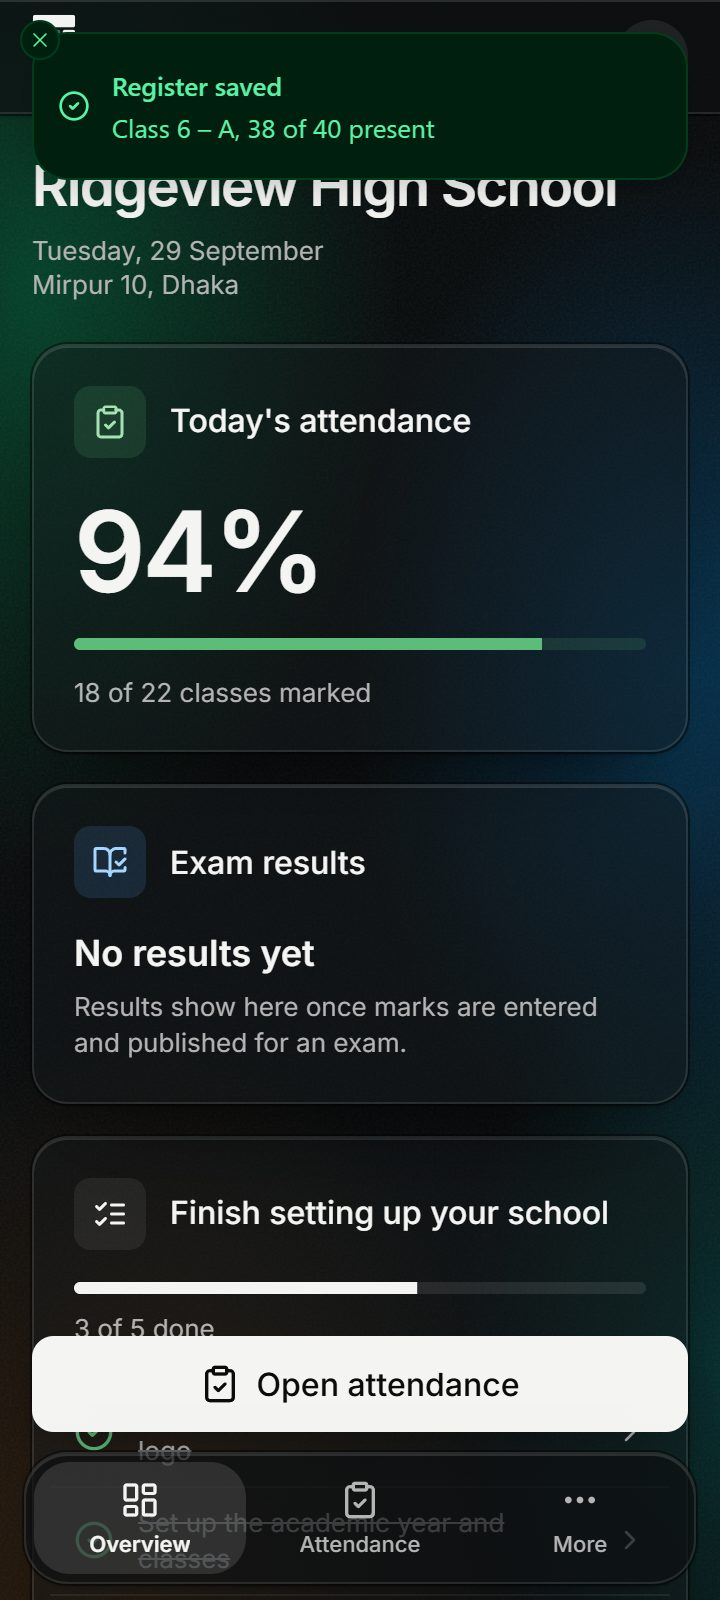
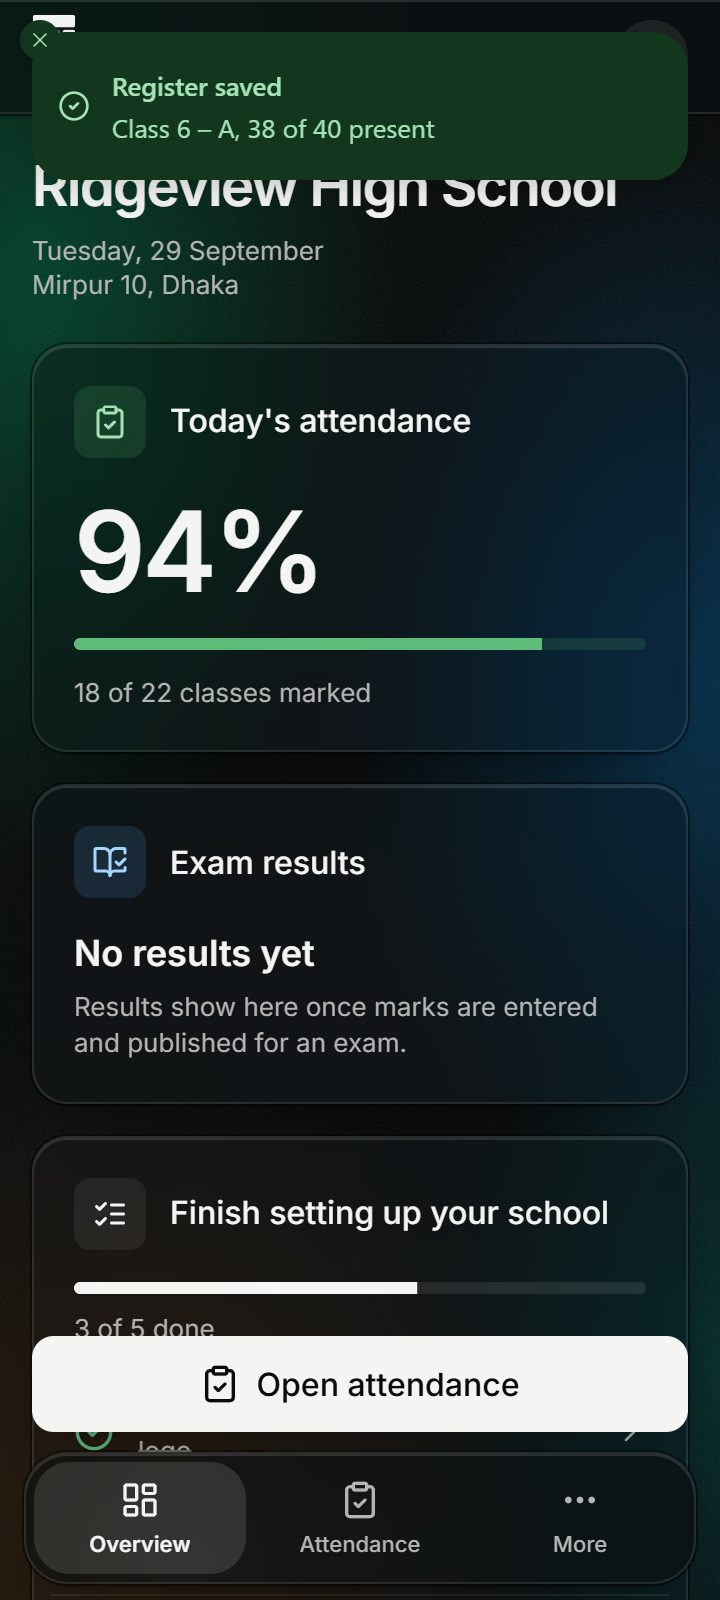
fix(design): accessible rich toasts; retaken glass screenshots; drop scratch preview; report third pass
Claude-Session: https://claude.ai/code/session_01RPijCEs437geuhi9W27B76

diff --git a/packages/ui/src/components/ui/sonner.tsx b/packages/ui/src/components/ui/sonner.tsx
@@ -33,6 +33,20 @@ const Toaster = ({ ...props }: ToasterProps) => {
           "--normal-text": "var(--popover-foreground)",
           "--normal-border": "var(--glass-border)",
           "--border-radius": "var(--radius-glass)",
+          // richColors: our soft/ink pairs (≥ 4.5:1); sonner's own success
+          // green is 4.25:1 on its background.
+          "--success-bg": "var(--success-soft)",
+          "--success-text": "var(--success-ink)",
+          "--success-border": "var(--success-soft)",
+          "--info-bg": "var(--info-soft)",
+          "--info-text": "var(--info-ink)",
+          "--info-border": "var(--info-soft)",
+          "--warning-bg": "var(--warning-soft)",
+          "--warning-text": "var(--warning-ink)",
+          "--warning-border": "var(--warning-soft)",
+          "--error-bg": "var(--danger-soft)",
+          "--error-text": "var(--danger-ink)",
+          "--error-border": "var(--danger-soft)",
         } as React.CSSProperties
       }
       {...props}

diff --git a/docs/test-reports/2026-09-29-design-system-v2.md b/docs/test-reports/2026-09-29-design-system-v2.md
@@ -7,7 +7,7 @@
 | Spec    | `docs/architecture/DESIGN-SYSTEM.md` §1.8, §1.9, §3.1; D-408                         |
 | PR      | #109                                                                                 |
 | Status  | **PASS WITH KNOWN ISSUES** (CI e2e/lighthouse results pending, §5)                   |
-| Date    | 2026-09-29                                                                           |
+| Date    | 2026-09-29, third pass 2026-09-30                                                    |
 | Run by  | Claude (design lane, second pass)                                                    |
 
 ---
@@ -32,11 +32,21 @@ The owner asked for liquid glass and both themes: _"the UI that you are building
 
 ---
 
+## 1a. Third pass (2026-09-30, after a power cut)
+
+- **Glass had no blur in production builds on Chrome/Android.** The CSS minifier treats `backdrop-filter` and `-webkit-backdrop-filter` as one property and keeps only the last; `tokens.css` declared the prefix last, so the built CSS shipped `-webkit-backdrop-filter` alone, which Chrome ignores (computed `backdrop-filter: none` on the BottomNav, checked in the browser). Content under the bottom nav was drawn sharp through it. Fixed by ordering the prefix first in all five places; `packages/ui/src/lib/glass-css.test.ts` fails on the old file and passes on the new one. The screenshots below are all retaken on the fixed build.
+- The quick-admit sheet moved to `students/admit-sheet.tsx` and loads with `next/dynamic` on first open; `admitErrorText` moved with it. `/app/students` first-load JS is now **206 kB** gzipped.
+- `ShellBack` is imported directly again (not `next/dynamic`); the budget still holds (largest school route 239 kB).
+- Sonner rich-colour toasts use our `*-soft`/`*-ink` pairs: axe measured sonner's own success green at 4.25:1.
+- `origin/main` merged (#119, #120, #90, #121); CI lint (a Prettier miss on `settings/danger/page.tsx`) fixed.
+
+---
+
 ## 2. Environment
 
 |             |                                                                                                                                                                                                          |
 | ----------- | -------------------------------------------------------------------------------------------------------------------------------------------------------------------------------------------------------- |
-| Commit      | `c05ba2a3` plus this docs commit                                                                                                                                                                         |
+| Commit      | `d3397c2a` + sonner/report commit (third pass); second pass at `c05ba2a3`                                                                                                                                |
 | Branch      | `feat/design-demo-screens` (merged with `origin/main` at `f47e1515`, #105)                                                                                                                               |
 | CI run      | pending at the time of writing; see the PR checks                                                                                                                                                        |
 | Supabase    | not touched; no migration                                                                                                                                                                                |
@@ -47,6 +57,10 @@ The owner asked for liquid glass and both themes: _"the UI that you are building
 ---
 
 ## 3. Unit and integration (Vitest)
+
+**Third pass, full `pnpm test` (coverage on):** 192 files passed, 11 skipped; **1912 tests passed**, 36 skipped, 0 failed; 72.1 s. Coverage (all files): statements 85.73 %, branches 76.75 %, functions 85.93 %, lines 88.86 %. One earlier full run in this session had one failure, `settings/history-line.test.ts` hitting the 5 s timeout under load; it passed alone and in the next full run (§8).
+
+Second pass:
 
 | Suite                          | Files | Tests | Passed | Failed | Duration |
 | ------------------------------ | ----- | ----- | ------ | ------ | -------- |
@@ -75,7 +89,9 @@ Not applicable: no migration, no table.
 
 **Playwright journeys:** not run locally. The journeys need a live Supabase session, and reading `.env.local` is blocked in this environment. CI's `e2e` job runs them on #109. The journeys that click in-page "Back to the exam" links are unaffected, because those links are kept and the shell link's name is "Back to Exam(s)".
 
-**axe (WCAG 2.0/2.1 A+AA, `@axe-core/playwright` 4.13):** 10 runs on the fixture route, covering light/dark × 360×800/1280×800 × dashboard/appearance, plus the open More sheet at 360:
+**axe, third pass:** 16 runs on the fixed build (light/dark × dashboard and Appearance at 360, 820 and 1280, plus toast and the open More sheet at 360): **0 violations** in all 16, after the toast fix. Before it, the light success toast had 1 serious `color-contrast` (4.25:1).
+
+**axe, second pass (WCAG 2.0/2.1 A+AA, `@axe-core/playwright` 4.13):** 10 runs on the fixture route, covering light/dark × 360×800/1280×800 × dashboard/appearance, plus the open More sheet at 360:
 
 | Result                        | Count                                                                                                                                        |
 | ----------------------------- | -------------------------------------------------------------------------------------------------------------------------------------------- |
@@ -105,6 +121,7 @@ Not applicable: no migration, no table.
 4. That ghosting turned out to come from Playwright's bundled headless shell, which does not run `backdrop-filter` at DPR 2. The installed Chrome blurs correctly, so all later shots use it.
 5. Back affordance added; the tablet nav and CTA spanned 820 px, so a centred dock was added.
 6. The tablet Plan card stretched to its neighbour's height, so it was top-aligned.
+7. (Third pass) Content read sharp through the bottom nav on the production build: the minifier had dropped the unprefixed `backdrop-filter` (§1a). Fixed and every shot retaken with `next build` + `next start`.
 
 ---
 
@@ -113,7 +130,7 @@ Not applicable: no migration, no table.
 | Check                                     | Result                                                                                                                                                                                                                                 |
 | ----------------------------------------- | -------------------------------------------------------------------------------------------------------------------------------------------------------------------------------------------------------------------------------------- |
 | `pnpm build`                              | exit 0                                                                                                                                                                                                                                 |
-| Bundle budget (`check-bundle-budget.mjs`) | **not measured locally.** On this Windows machine Next reported 0 B for every route and the script printed "No routes under /(school)/app to measure". The CI `build` job's budget step is the real measurement.                       |
+| Bundle budget (`check-bundle-budget.mjs`) | third pass, measured locally: every `/(school)/app` route under 250 kB; largest `settings/calendar` 239 kB, `staff/team` 234 kB, `/app/students` 206 kB.                                                                               |
 | Lighthouse                                | not run locally; CI `lighthouse` job                                                                                                                                                                                                   |
 | `node scripts/check-glass-contrast.mjs`   | **16/16 PASS**. Light: foreground ≥ 11.52:1, muted on bare mesh 5.19, on panel 6.63, on chrome 6.90, on overlay 8.08. Dark: foreground ≥ 8.83:1, muted on bare mesh **4.69** (lowest), on panel 6.20, on chrome 6.74, on overlay 8.29. |
 | Blur scope                                | Chrome (3 fixed layers), the dashboard's ≤ 6 cards, and transient overlays. No list rows.                                                                                                                                              |
@@ -134,11 +151,14 @@ No auth, data, money or file code changed. The back control only navigates to in
 | 2   | Tab state is not in the URL for the class hub (owned by #82); browser back does not step through its tabs.                                                                                                           | medium   | yes. #82's lane or a follow-up moves it to `?tab=`.                     |
 | 3   | `ShellBack` is mounted inside `WorkspaceSwitcher`, not composed explicitly in the layouts, because the school layout belongs to #82.                                                                                 | low      | yes. Move it into `TopBar.leading` after #82 merges.                    |
 | 4   | `check-glass-contrast.mjs` is not in CI (`ci.yml` belongs to #90).                                                                                                                                                   | low      | yes. Add one step after #90 merges.                                     |
-| 5   | `/app/settings` has no "Theme & language" row yet (the file belongs to #110). The page is reachable from the avatar menu.                                                                                            | low      | yes                                                                     |
+| 5   | ~~No "Theme & language" row in `/app/settings`~~ — resolved (row added; kept alongside the #119 account row in the merge).                                                                                           | —        | —                                                                       |
 | 6   | New copy (appearance page, back labels, the "Home" fallback) is inline bilingual, not in `messages/*.json` (owned by #82/#110).                                                                                      | low      | yes. Fold it in after those merge.                                      |
 | 7   | `SubPageHeader.backLabel` is accepted and ignored until #110 merges.                                                                                                                                                 | low      | yes                                                                     |
 | 8   | Theme is stored per device (`next-themes` localStorage), not synced across devices.                                                                                                                                  | low      | yes. Follow up if the owner asks.                                       |
 | 9   | Screens were verified on a fixture route, not with a signed-in live session (no dev credentials in this environment); the bundle budget was not measurable locally.                                                  | medium   | only once CI `e2e`/`lighthouse`/`build` are green                       |
+| 11  | Success/info/warning/error toasts are now near-opaque soft fills (legibility over glass). Neutral toasts keep the glass tint.                                                                                        | low      | yes                                                                     |
+| 12  | `settings/history-line.test.ts` timed out once (5 s) during a loaded full run; passes alone and on rerun.                                                                                                            | low      | yes; raise its timeout if it recurs in CI                               |
+| 13  | Screenshots come from a scratch fixture route (deleted before this commit), rendered against dummy public Supabase env; no signed-in session.                                                                        | medium   | lead reviews the screenshots; CI `e2e` runs the live journeys           |
 | 10  | `home/language-switch-button.tsx` is unused (a first-pass leftover; `home/page.tsx` belongs to #82).                                                                                                                 | low      | yes                                                                     |
 
 Deliberately not tested: Safari and Firefox rendering. Chromium only; the `-webkit-` prefix and the `@supports` fallback were reviewed in code, not run.
